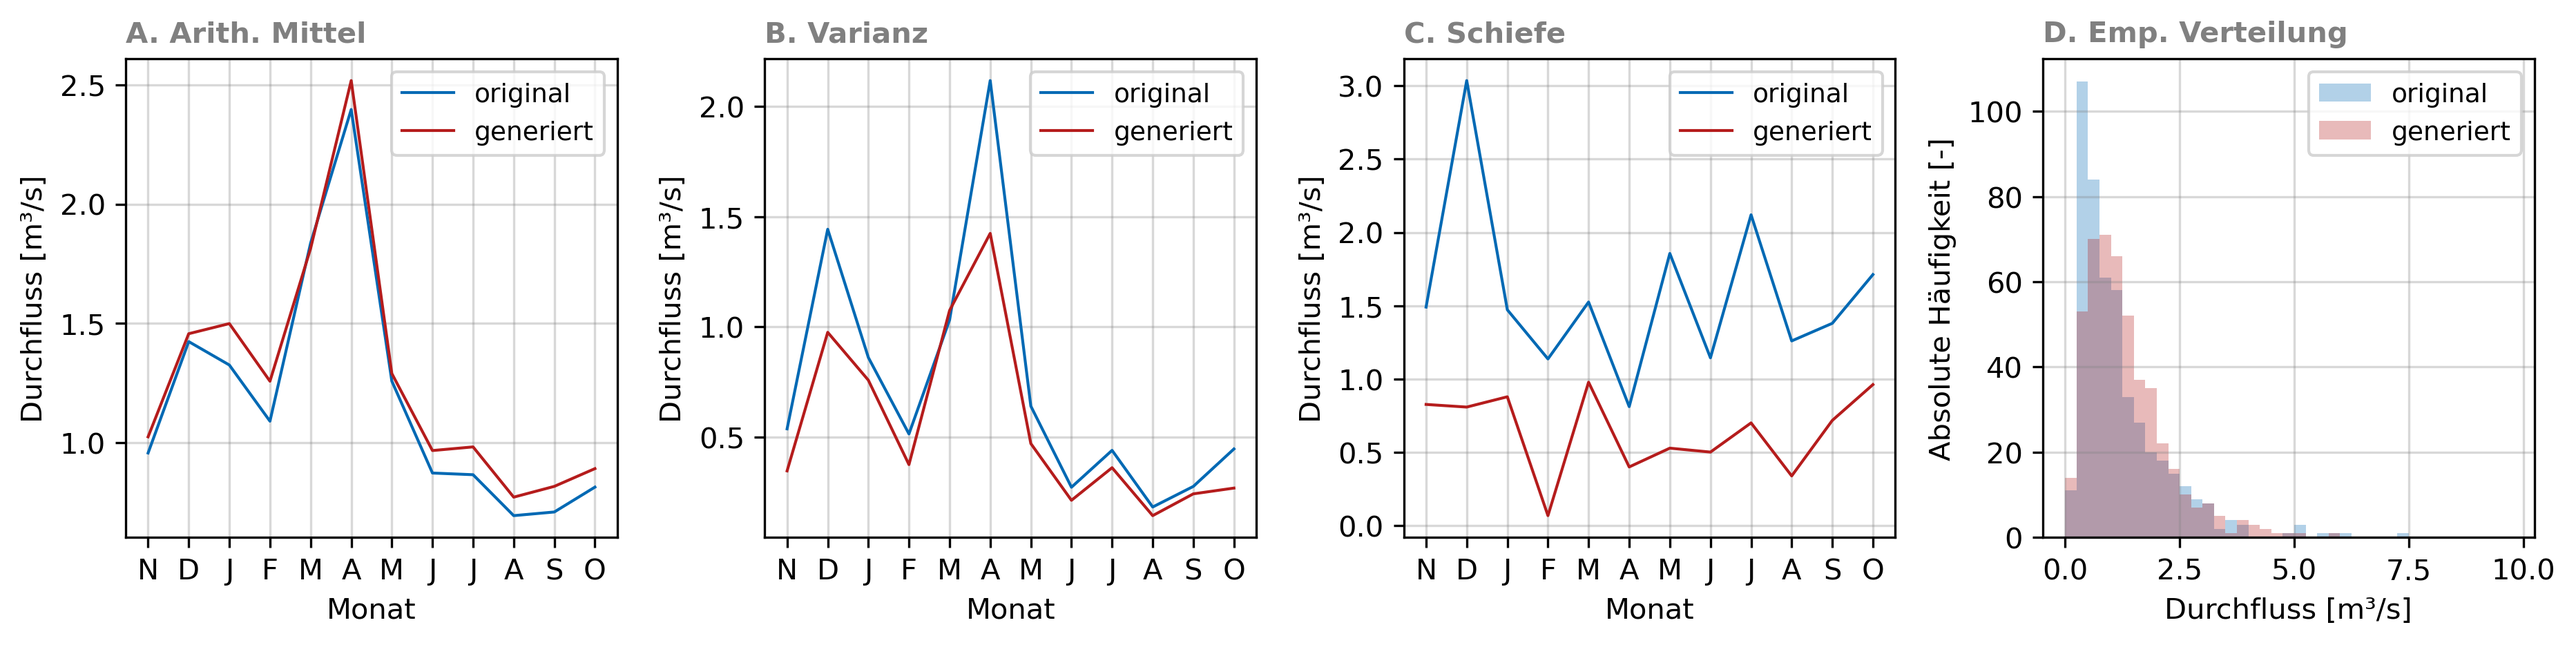
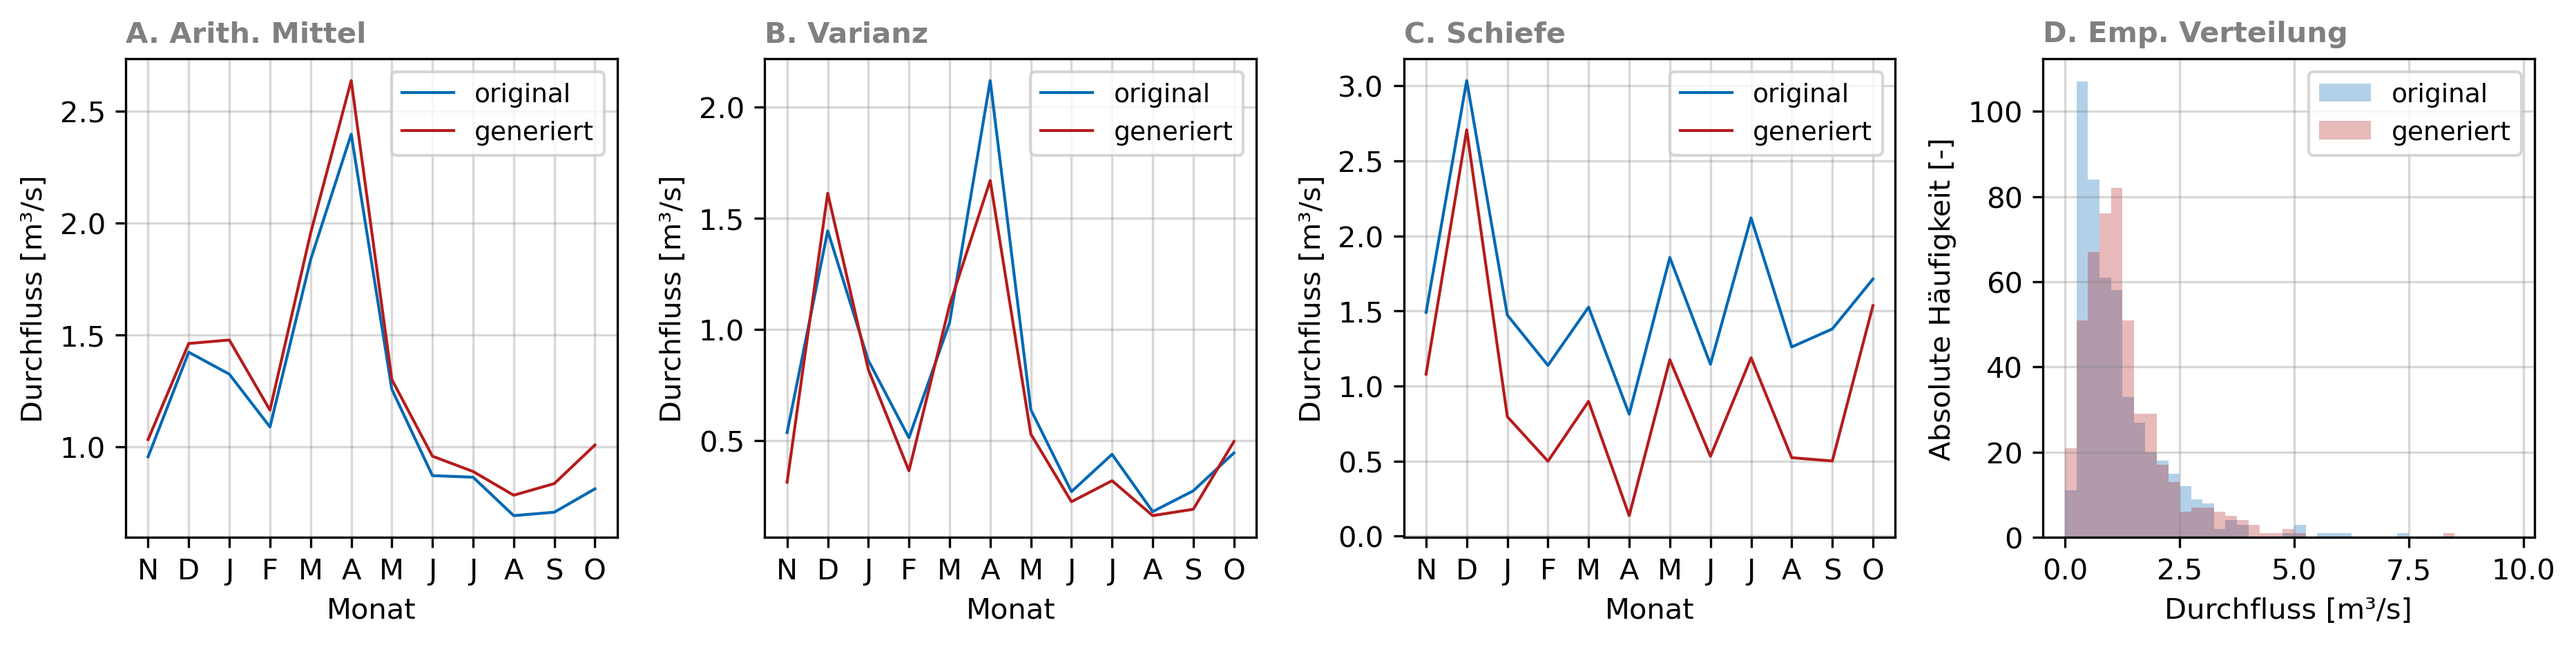
NOSIG

diff --git a/data/Klingenthal_thomasfiering_timeseries.tex b/data/Klingenthal_thomasfiering_timeseries.tex
@@ -1,0 +1,106 @@
+\begin{tabular}{lrrrrrrrrrrrr}
+\toprule
+{} &     11 &     12 &     1  &     2  &     3  &     4  &     5  &     6  &     7  &     8  &     9  &     10 \\
+\midrule
+1   &  0.985 &  1.374 &  1.483 &  0.252 &  0.869 &  2.428 &  0.885 &  0.806 &  0.228 &  1.334 &  1.047 &  1.084 \\
+2   &  0.806 &  2.205 &  1.234 &  0.960 &  2.142 &  2.900 &  3.667 &  0.938 &  1.077 &  0.597 &  1.289 &  1.157 \\
+3   &  0.314 &  0.144 &  0.209 &  0.516 &  0.776 &  3.610 &  0.953 &  1.486 &  0.394 &  1.092 &  1.157 &  0.378 \\
+4   &  0.855 &  3.595 &  1.794 &  1.811 &  1.492 &  1.992 &  0.980 &  1.414 &  1.209 &  0.566 &  0.663 &  1.029 \\
+5   &  1.404 &  1.404 &  2.345 &  1.172 &  0.308 &  4.961 &  1.366 &  0.598 &  0.281 &  1.298 &  1.085 &  0.894 \\
+6   &  1.488 &  1.270 &  0.735 &  0.704 &  1.184 &  3.452 &  1.411 &  1.061 &  1.238 &  0.719 &  0.188 &  0.752 \\
+7   &  0.799 &  0.491 &  0.453 &  1.211 &  2.625 &  3.369 &  1.682 &  2.121 &  0.568 &  0.603 &  0.965 &  1.760 \\
+8   &  0.907 &  1.480 &  0.787 &  0.963 &  0.350 &  3.795 &  3.557 &  1.616 &  0.853 &  0.119 &  0.727 &  1.739 \\
+9   &  1.097 &  0.744 &  0.539 &  1.859 &  1.640 &  1.413 &  1.604 &  1.196 &  0.467 &  0.309 &  0.702 &  0.475 \\
+10  &  0.917 &  1.065 &  0.476 &  1.417 &  0.859 &  4.822 &  2.725 &  0.620 &  0.984 &  1.096 &  0.733 &  0.677 \\
+11  &  0.868 &  0.701 &  0.447 &  0.841 &  1.972 &  4.332 &  1.919 &  1.249 &  0.229 &  1.482 &  1.149 &  1.737 \\
+12  &  0.789 &  2.230 &  0.777 &  1.076 &  1.975 &  1.932 &  0.520 &  1.204 &  0.598 &  1.049 &  1.000 &  0.639 \\
+13  &  1.106 &  1.218 &  1.233 &  0.637 &  3.763 &  0.261 &  0.400 &  0.509 &  0.109 &  0.331 &  0.408 &  0.154 \\
+14  &  1.369 &  1.812 &  3.040 &  0.895 &  2.386 &  1.291 &  0.539 &  0.942 &  2.210 &  0.956 &  0.418 &  0.173 \\
+15  &  0.710 &  0.519 &  0.568 &  1.066 &  1.176 &  2.464 &  1.033 &  0.196 &  0.399 &  0.935 &  0.128 &  0.861 \\
+16  &  0.138 &  0.502 &  0.567 &  0.627 &  2.320 &  1.714 &  0.517 &  1.231 &  1.438 &  1.009 &  1.855 &  1.208 \\
+17  &  0.854 &  0.683 &  1.629 &  0.980 &  4.234 &  3.643 &  1.310 &  1.179 &  1.053 &  1.555 &  0.300 &  1.649 \\
+18  &  1.201 &  0.910 &  0.843 &  0.134 &  1.518 &  3.138 &  0.789 &  1.436 &  1.122 &  0.843 &  0.822 &  1.347 \\
+19  &  1.982 &  1.312 &  1.131 &  1.190 &  2.238 &  3.377 &  1.565 &  0.411 &  1.442 &  0.196 &  0.457 &  0.177 \\
+20  &  0.308 &  0.374 &  0.892 &  0.659 &  1.991 &  2.653 &  2.096 &  1.073 &  1.049 &  1.343 &  1.086 &  0.959 \\
+21  &  0.962 &  1.069 &  1.902 &  1.248 &  2.076 &  0.535 &  0.308 &  0.379 &  0.892 &  1.260 &  0.864 &  0.289 \\
+22  &  1.022 &  0.700 &  1.665 &  0.950 &  2.890 &  3.420 &  1.001 &  1.881 &  0.611 &  1.458 &  1.434 &  1.586 \\
+23  &  0.633 &  0.348 &  1.294 &  0.616 &  1.173 &  1.795 &  0.964 &  1.007 &  1.804 &  0.453 &  0.691 &  0.785 \\
+24  &  0.509 &  0.382 &  0.152 &  0.623 &  1.615 &  0.478 &  1.294 &  0.799 &  0.669 &  1.118 &  1.425 &  2.037 \\
+25  &  1.618 &  8.321 &  3.028 &  1.791 &  1.837 &  4.104 &  1.293 &  0.820 &  0.141 &  1.427 &  0.782 &  1.442 \\
+26  &  1.038 &  0.831 &  0.952 &  2.783 &  4.186 &  0.893 &  2.793 &  0.925 &  1.062 &  0.738 &  0.386 &  1.236 \\
+27  &  1.388 &  1.179 &  1.067 &  0.780 &  1.293 &  2.092 &  1.248 &  1.207 &  0.449 &  0.300 &  1.465 &  2.550 \\
+28  &  2.411 &  2.166 &  2.501 &  0.243 &  1.858 &  2.834 &  1.068 &  1.417 &  1.110 &  0.297 &  0.319 &  0.916 \\
+29  &  0.484 &  0.459 &  2.086 &  2.675 &  1.678 &  3.883 &  1.086 &  0.603 &  0.526 &  0.926 &  0.927 &  0.555 \\
+30  &  0.613 &  2.391 &  1.898 &  1.154 &  1.235 &  3.479 &  1.630 &  0.468 &  0.774 &  0.636 &  0.623 &  0.537 \\
+31  &  1.070 &  0.907 &  1.619 &  1.380 &  3.952 &  3.453 &  0.988 &  0.244 &  0.880 &  1.308 &  1.548 &  1.458 \\
+32  &  1.865 &  1.520 &  2.360 &  2.132 &  2.913 &  2.888 &  1.770 &  0.738 &  0.827 &  0.227 &  0.867 &  0.658 \\
+33  &  0.970 &  1.162 &  3.116 &  1.373 &  0.506 &  3.070 &  1.317 &  0.469 &  0.257 &  0.719 &  0.677 &  0.216 \\
+34  &  0.710 &  0.494 &  0.333 &  1.600 &  1.671 &  0.817 &  1.245 &  1.182 &  1.493 &  0.822 &  0.949 &  1.403 \\
+35  &  0.697 &  0.409 &  1.084 &  0.393 &  3.233 &  2.341 &  1.135 &  1.848 &  0.992 &  0.666 &  1.576 &  1.235 \\
+36  &  1.904 &  1.612 &  1.888 &  1.212 &  0.970 &  4.733 &  1.866 &  0.933 &  1.159 &  1.506 &  0.572 &  1.444 \\
+37  &  0.623 &  2.447 &  1.151 &  0.939 &  5.222 &  2.385 &  1.124 &  1.440 &  0.326 &  0.774 &  1.065 &  1.259 \\
+38  &  0.832 &  0.498 &  0.999 &  0.657 &  0.442 &  2.234 &  1.549 &  0.680 &  0.327 &  0.587 &  1.757 &  2.032 \\
+39  &  1.310 &  1.903 &  2.133 &  2.148 &  0.991 &  1.657 &  0.614 &  0.278 &  0.607 &  0.621 &  0.862 &  1.249 \\
+40  &  1.121 &  1.056 &  2.344 &  1.025 &  1.144 &  2.476 &  1.514 &  1.063 &  3.051 &  0.708 &  1.120 &  1.232 \\
+41  &  0.842 &  0.590 &  1.774 &  1.232 &  1.129 &  1.245 &  0.734 &  1.334 &  0.780 &  0.823 &  1.147 &  1.696 \\
+42  &  0.826 &  2.184 &  2.250 &  1.038 &  0.970 &  0.862 &  0.564 &  0.533 &  0.833 &  0.961 &  1.179 &  1.844 \\
+43  &  0.882 &  1.724 &  1.161 &  2.555 &  4.276 &  1.525 &  0.451 &  0.993 &  0.801 &  0.160 &  0.978 &  0.238 \\
+44  &  2.080 &  3.952 &  2.201 &  0.518 &  1.555 &  0.712 &  0.251 &  0.627 &  0.455 &  0.992 &  0.635 &  0.548 \\
+45  &  0.812 &  0.473 &  1.527 &  0.469 &  1.471 &  4.737 &  1.721 &  0.725 &  1.473 &  0.574 &  0.578 &  0.235 \\
+46  &  2.322 &  2.250 &  1.164 &  0.928 &  2.319 &  1.791 &  1.218 &  0.976 &  1.558 &  0.781 &  0.595 &  0.557 \\
+47  &  2.788 &  2.702 &  1.181 &  0.789 &  1.950 &  4.408 &  2.574 &  0.714 &  0.472 &  0.523 &  0.845 &  1.067 \\
+48  &  0.959 &  1.231 &  0.733 &  0.635 &  3.148 &  1.837 &  0.485 &  0.163 &  0.191 &  0.795 &  1.117 &  1.095 \\
+49  &  0.752 &  1.157 &  2.061 &  2.358 &  0.370 &  0.291 &  1.488 &  0.986 &  1.491 &  1.142 &  0.497 &  0.339 \\
+50  &  1.286 &  0.864 &  1.361 &  0.486 &  0.748 &  0.727 &  0.630 &  0.454 &  0.529 &  0.585 &  0.153 &  0.274 \\
+51  &  0.316 &  0.114 &  3.499 &  1.512 &  1.387 &  0.545 &  0.341 &  1.045 &  1.671 &  0.426 &  1.223 &  2.567 \\
+52  &  0.330 &  0.353 &  0.872 &  2.176 &  1.884 &  1.381 &  1.157 &  0.554 &  1.681 &  1.101 &  0.499 &  1.412 \\
+53  &  1.014 &  0.812 &  2.795 &  0.167 &  1.590 &  2.980 &  1.323 &  0.357 &  0.101 &  0.367 &  0.376 &  0.409 \\
+54  &  0.868 &  0.720 &  1.900 &  1.204 &  1.274 &  2.432 &  0.626 &  0.889 &  0.466 &  0.896 &  0.820 &  0.707 \\
+55  &  2.433 &  2.075 &  0.865 &  0.645 &  1.227 &  0.760 &  0.231 &  1.148 &  0.188 &  0.697 &  1.446 &  1.382 \\
+56  &  0.458 &  0.695 &  1.746 &  1.461 &  1.608 &  2.525 &  1.068 &  0.873 &  1.001 &  0.969 &  1.163 &  0.976 \\
+57  &  0.645 &  0.372 &  2.351 &  0.900 &  1.244 &  4.544 &  1.428 &  0.985 &  0.285 &  0.568 &  1.426 &  0.776 \\
+58  &  1.327 &  1.354 &  1.067 &  1.823 &  1.932 &  3.599 &  1.565 &  0.560 &  1.291 &  1.256 &  1.042 &  2.032 \\
+59  &  0.592 &  0.489 &  0.456 &  1.842 &  1.539 &  5.702 &  2.200 &  1.252 &  0.565 &  0.443 &  0.388 &  0.225 \\
+60  &  1.318 &  2.230 &  0.495 &  1.331 &  2.207 &  1.513 &  0.728 &  0.798 &  0.645 &  1.035 &  1.903 &  1.443 \\
+61  &  0.756 &  0.438 &  1.756 &  1.878 &  2.783 &  1.811 &  0.997 &  0.856 &  1.074 &  0.780 &  0.278 &  0.347 \\
+62  &  1.561 &  2.620 &  1.140 &  1.492 &  1.298 &  2.979 &  1.009 &  0.890 &  1.483 &  0.457 &  0.657 &  1.075 \\
+63  &  0.232 &  2.879 &  1.400 &  2.094 &  3.562 &  5.350 &  3.208 &  1.293 &  0.516 &  0.490 &  1.007 &  0.691 \\
+64  &  0.710 &  2.820 &  3.515 &  0.861 &  1.843 &  2.230 &  0.482 &  0.388 &  0.275 &  0.298 &  0.415 &  0.552 \\
+65  &  0.635 &  2.556 &  1.453 &  1.285 &  1.329 &  3.211 &  1.483 &  1.200 &  0.717 &  0.529 &  0.378 &  0.551 \\
+66  &  1.932 &  2.244 &  0.994 &  1.074 &  1.736 &  3.606 &  1.158 &  1.968 &  0.346 &  0.778 &  1.824 &  2.214 \\
+67  &  1.103 &  2.367 &  0.242 &  1.150 &  3.296 &  4.446 &  1.331 &  0.846 &  2.081 &  0.289 &  0.545 &  0.290 \\
+68  &  1.038 &  2.098 &  0.574 &  0.183 &  3.118 &  3.693 &  1.888 &  2.152 &  1.250 &  0.881 &  1.137 &  0.562 \\
+69  &  1.494 &  1.049 &  0.921 &  0.819 &  4.410 &  1.962 &  0.457 &  0.165 &  2.684 &  0.764 &  0.302 &  1.165 \\
+70  &  0.923 &  1.995 &  0.347 &  1.888 &  3.604 &  0.709 &  0.380 &  0.544 &  0.325 &  0.517 &  0.313 &  0.886 \\
+71  &  0.258 &  1.823 &  1.271 &  1.944 &  0.676 &  4.024 &  1.447 &  0.946 &  1.605 &  1.384 &  1.610 &  2.091 \\
+72  &  2.832 &  3.750 &  2.286 &  1.564 &  1.713 &  4.045 &  1.355 &  1.222 &  1.751 &  1.540 &  0.245 &  0.849 \\
+73  &  0.408 &  1.129 &  3.523 &  1.943 &  2.980 &  2.455 &  1.748 &  0.865 &  0.574 &  0.832 &  0.404 &  0.354 \\
+74  &  0.315 &  0.163 &  1.883 &  0.593 &  1.093 &  4.688 &  1.685 &  1.355 &  1.213 &  1.686 &  0.930 &  1.056 \\
+75  &  0.543 &  0.742 &  0.840 &  0.515 &  4.366 &  2.070 &  0.783 &  0.450 &  0.575 &  1.180 &  0.621 &  0.814 \\
+76  &  1.182 &  0.784 &  2.166 &  0.772 &  1.748 &  2.643 &  0.761 &  1.306 &  0.656 &  0.527 &  0.850 &  0.666 \\
+77  &  0.786 &  0.526 &  2.695 &  1.981 &  1.341 &  2.994 &  1.051 &  0.628 &  0.991 &  0.551 &  0.667 &  1.162 \\
+78  &  1.015 &  0.613 &  0.594 &  0.801 &  1.159 &  3.503 &  1.369 &  1.400 &  0.306 &  0.344 &  0.309 &  0.117 \\
+79  &  0.958 &  1.549 &  2.168 &  0.832 &  1.030 &  1.706 &  1.022 &  0.356 &  0.500 &  0.926 &  0.969 &  0.791 \\
+80  &  1.149 &  0.962 &  1.363 &  1.889 &  1.271 &  3.108 &  1.308 &  0.585 &  0.877 &  1.339 &  0.619 &  1.578 \\
+81  &  1.680 &  2.152 &  0.264 &  1.326 &  3.250 &  2.760 &  1.441 &  1.561 &  1.782 &  0.769 &  0.944 &  0.308 \\
+82  &  0.403 &  0.348 &  0.502 &  1.494 &  1.821 &  1.438 &  0.792 &  1.094 &  0.437 &  0.320 &  1.737 &  1.805 \\
+83  &  1.146 &  1.828 &  0.537 &  0.201 &  4.316 &  3.542 &  1.257 &  1.358 &  0.832 &  0.488 &  0.717 &  0.267 \\
+84  &  1.537 &  1.537 &  1.941 &  1.010 &  2.435 &  4.316 &  1.394 &  0.419 &  0.451 &  0.366 &  0.147 &  0.306 \\
+85  &  0.438 &  6.855 &  3.594 &  1.242 &  2.653 &  2.107 &  2.184 &  0.642 &  1.015 &  0.186 &  0.119 &  0.197 \\
+86  &  1.623 &  1.491 &  2.714 &  0.971 &  1.740 &  0.635 &  0.118 &  1.007 &  1.171 &  0.562 &  0.319 &  0.998 \\
+87  &  0.484 &  0.998 &  1.143 &  1.396 &  1.809 &  3.282 &  1.213 &  0.432 &  0.984 &  2.025 &  1.048 &  0.349 \\
+88  &  0.561 &  0.403 &  0.560 &  2.228 &  1.602 &  1.388 &  0.534 &  0.306 &  1.131 &  0.302 &  1.756 &  0.813 \\
+89  &  0.726 &  1.699 &  0.951 &  0.474 &  1.207 &  3.205 &  1.746 &  1.093 &  0.672 &  0.584 &  0.462 &  0.120 \\
+90  &  0.870 &  5.292 &  4.333 &  1.663 &  1.983 &  2.713 &  1.098 &  0.654 &  0.514 &  0.790 &  0.417 &  0.170 \\
+91  &  2.179 &  2.044 &  3.132 &  1.645 &  1.918 &  2.411 &  1.259 &  1.199 &  1.154 &  0.270 &  0.739 &  4.395 \\
+92  &  1.604 &  1.110 &  1.276 &  0.245 &  1.795 &  3.798 &  1.427 &  1.502 &  1.252 &  1.132 &  0.770 &  0.838 \\
+93  &  1.076 &  0.656 &  1.116 &  0.622 &  1.985 &  1.951 &  0.969 &  0.628 &  0.691 &  1.432 &  0.700 &  0.648 \\
+94  &  0.928 &  0.567 &  2.091 &  1.174 &  3.105 &  2.634 &  1.715 &  1.820 &  0.306 &  0.160 &  0.980 &  2.073 \\
+95  &  0.161 &  1.053 &  0.416 &  1.495 &  2.725 &  1.448 &  2.836 &  0.541 &  0.949 &  1.247 &  0.794 &  0.705 \\
+96  &  0.916 &  1.710 &  1.503 &  1.225 &  0.558 &  2.471 &  2.794 &  1.909 &  2.301 &  0.235 &  0.606 &  0.870 \\
+97  &  0.522 &  0.948 &  0.698 &  0.620 &  0.285 &  0.873 &  0.454 &  0.988 &  0.305 &  0.368 &  0.267 &  1.036 \\
+98  &  1.174 &  0.977 &  0.776 &  2.011 &  1.763 &  3.793 &  1.077 &  1.356 &  0.764 &  0.530 &  0.496 &  0.878 \\
+99  &  0.925 &  0.572 &  2.482 &  0.644 &  1.335 &  1.186 &  1.376 &  0.123 &  0.686 &  0.732 &  1.198 &  0.597 \\
+100 &  1.090 &  0.684 &  0.448 &  0.527 &  2.300 &  5.194 &  3.478 &  2.283 &  0.559 &  0.881 &  1.342 &  2.981 \\
+\bottomrule
+\end{tabular}

diff --git a/data/Klingenthal_thomasfiering_timeseries_first10.tex b/data/Klingenthal_thomasfiering_timeseries_first10.tex
@@ -2,15 +2,15 @@
 \toprule
 {} &     11 &     12 &     1  &     2  &     3  &     4  &     5  &     6  &     7  &     8  &     9  &     10 \\
 \midrule
-1  &  2.108 &  1.779 &  1.315 &  1.865 &  1.846 &  1.253 &  0.319 &  0.499 &  0.781 &  1.047 &  0.689 &  0.487 \\
-2  &  0.269 &  0.334 &  1.521 &  2.374 &  1.956 &  1.097 &  0.981 &  1.056 &  0.349 &  0.931 &  0.573 &  0.649 \\
-3  &  1.529 &  1.811 &  1.847 &  1.297 &  0.272 &  2.416 &  1.063 &  0.565 &  0.862 &  0.894 &  0.770 &  1.212 \\
-4  &  0.819 &  2.891 &  2.551 &  0.164 &  0.955 &  2.574 &  1.003 &  0.708 &  0.133 &  1.090 &  1.913 &  1.699 \\
-5  &  1.311 &  2.159 &  3.271 &  1.756 &  2.522 &  2.863 &  1.116 &  1.412 &  1.203 &  0.656 &  1.873 &  1.130 \\
-6  &  0.679 &  0.963 &  2.043 &  1.521 &  2.270 &  1.984 &  2.085 &  0.285 &  0.756 &  1.187 &  0.749 &  1.384 \\
-7  &  0.813 &  0.475 &  2.942 &  1.251 &  1.524 &  2.289 &  2.453 &  1.307 &  2.335 &  0.483 &  0.134 &  0.283 \\
-8  &  0.835 &  0.491 &  1.115 &  1.381 &  1.807 &  1.497 &  0.352 &  0.271 &  1.117 &  0.102 &  1.092 &  0.942 \\
-9  &  0.934 &  1.639 &  0.563 &  0.803 &  0.409 &  1.378 &  0.620 &  0.757 &  2.608 &  0.813 &  0.477 &  0.693 \\
-10 &  1.717 &  2.374 &  0.939 &  1.274 &  3.120 &  2.436 &  1.491 &  1.161 &  1.648 &  0.861 &  0.484 &  1.335 \\
+1  &  0.985 &  1.374 &  1.483 &  0.252 &  0.869 &  2.428 &  0.885 &  0.806 &  0.228 &  1.334 &  1.047 &  1.084 \\
+2  &  0.806 &  2.205 &  1.234 &  0.960 &  2.142 &  2.900 &  3.667 &  0.938 &  1.077 &  0.597 &  1.289 &  1.157 \\
+3  &  0.314 &  0.144 &  0.209 &  0.516 &  0.776 &  3.610 &  0.953 &  1.486 &  0.394 &  1.092 &  1.157 &  0.378 \\
+4  &  0.855 &  3.595 &  1.794 &  1.811 &  1.492 &  1.992 &  0.980 &  1.414 &  1.209 &  0.566 &  0.663 &  1.029 \\
+5  &  1.404 &  1.404 &  2.345 &  1.172 &  0.308 &  4.961 &  1.366 &  0.598 &  0.281 &  1.298 &  1.085 &  0.894 \\
+6  &  1.488 &  1.270 &  0.735 &  0.704 &  1.184 &  3.452 &  1.411 &  1.061 &  1.238 &  0.719 &  0.188 &  0.752 \\
+7  &  0.799 &  0.491 &  0.453 &  1.211 &  2.625 &  3.369 &  1.682 &  2.121 &  0.568 &  0.603 &  0.965 &  1.760 \\
+8  &  0.907 &  1.480 &  0.787 &  0.963 &  0.350 &  3.795 &  3.557 &  1.616 &  0.853 &  0.119 &  0.727 &  1.739 \\
+9  &  1.097 &  0.744 &  0.539 &  1.859 &  1.640 &  1.413 &  1.604 &  1.196 &  0.467 &  0.309 &  0.702 &  0.475 \\
+10 &  0.917 &  1.065 &  0.476 &  1.417 &  0.859 &  4.822 &  2.725 &  0.620 &  0.984 &  1.096 &  0.733 &  0.677 \\
 \bottomrule
 \end{tabular}

diff --git a/code/utils/plotting.py b/code/utils/plotting.py
@@ -441,7 +441,7 @@ def plot_thomasfiering(df: pd.DataFrame, gen_data: np.array, n: int = 10) -> Non
     
     # raw data
     plt.plot(x, np.mean(arr, axis=0), color=tu_red, alpha=1, lw=1, 
-             label=f"original (Mittel aus 40 Zeitreihen)")
+             label=f"Mittel aus 40 Zeitreihen (original)")
     # for row_i in range(len(arr)):
     #     plt.plot(x, arr[row_i], color=tu_red, alpha=0.3, lw=0.5)
     plt.boxplot(arr, positions=x-0.1, widths=0.1, patch_artist=True,
@@ -453,11 +453,12 @@ def plot_thomasfiering(df: pd.DataFrame, gen_data: np.array, n: int = 10) -> Non
     
     # generated data
     plt.plot(x, np.mean(gen_data, axis=0), color="k", alpha=1, lw=1, 
-             label=f"generiert (Mittel aus ({len(gen_data)} Zeitreihen)")
+             label=f"Mittel aus {len(gen_data)} Zeitreihen (generiert)")
     for i in range(min(len(gen_data), n)):
         plt.plot(x, gen_data[i], color="grey", alpha=0.1, lw=0.5)
-    plt.fill_between(x, np.min(gen_data, axis=0), np.max(gen_data, axis=0), 
-            color="grey", alpha=0.1, label="generiert (Spannweite")
+    plt.fill_between(x, np.mean(gen_data, axis=0)-np.std(gen_data, axis=0),
+            np.mean(gen_data, axis=0)+np.std(gen_data, axis=0),
+            color="grey", alpha=0.1, label="Intervall einfacher Std. (generiert)")
     plt.boxplot(gen_data, positions=x+0.1, widths=0.1, patch_artist=True,
                 boxprops=dict(facecolor="grey", color="grey", alpha=0.2),
                 capprops=dict(color="grey", alpha=0.3),

diff --git a/code/main.py b/code/main.py
@@ -139,6 +139,7 @@ gen_data = pd.DataFrame(
     )
 
 gen_data.to_csv(f"data/{pegelname}_thomasfiering_timeseries.csv", index=True)
+gen_data.iloc[:].round(3).to_latex(f"data/{pegelname}_thomasfiering_timeseries.tex", index=True)
 gen_data.iloc[:10].round(3).to_latex(f"data/{pegelname}_thomasfiering_timeseries_first10.tex", index=True)
 plot_thomasfiering(df, gen_data.to_numpy(), n=100)
 plot_thomasfierung_eval(df, gen_data.to_numpy())
